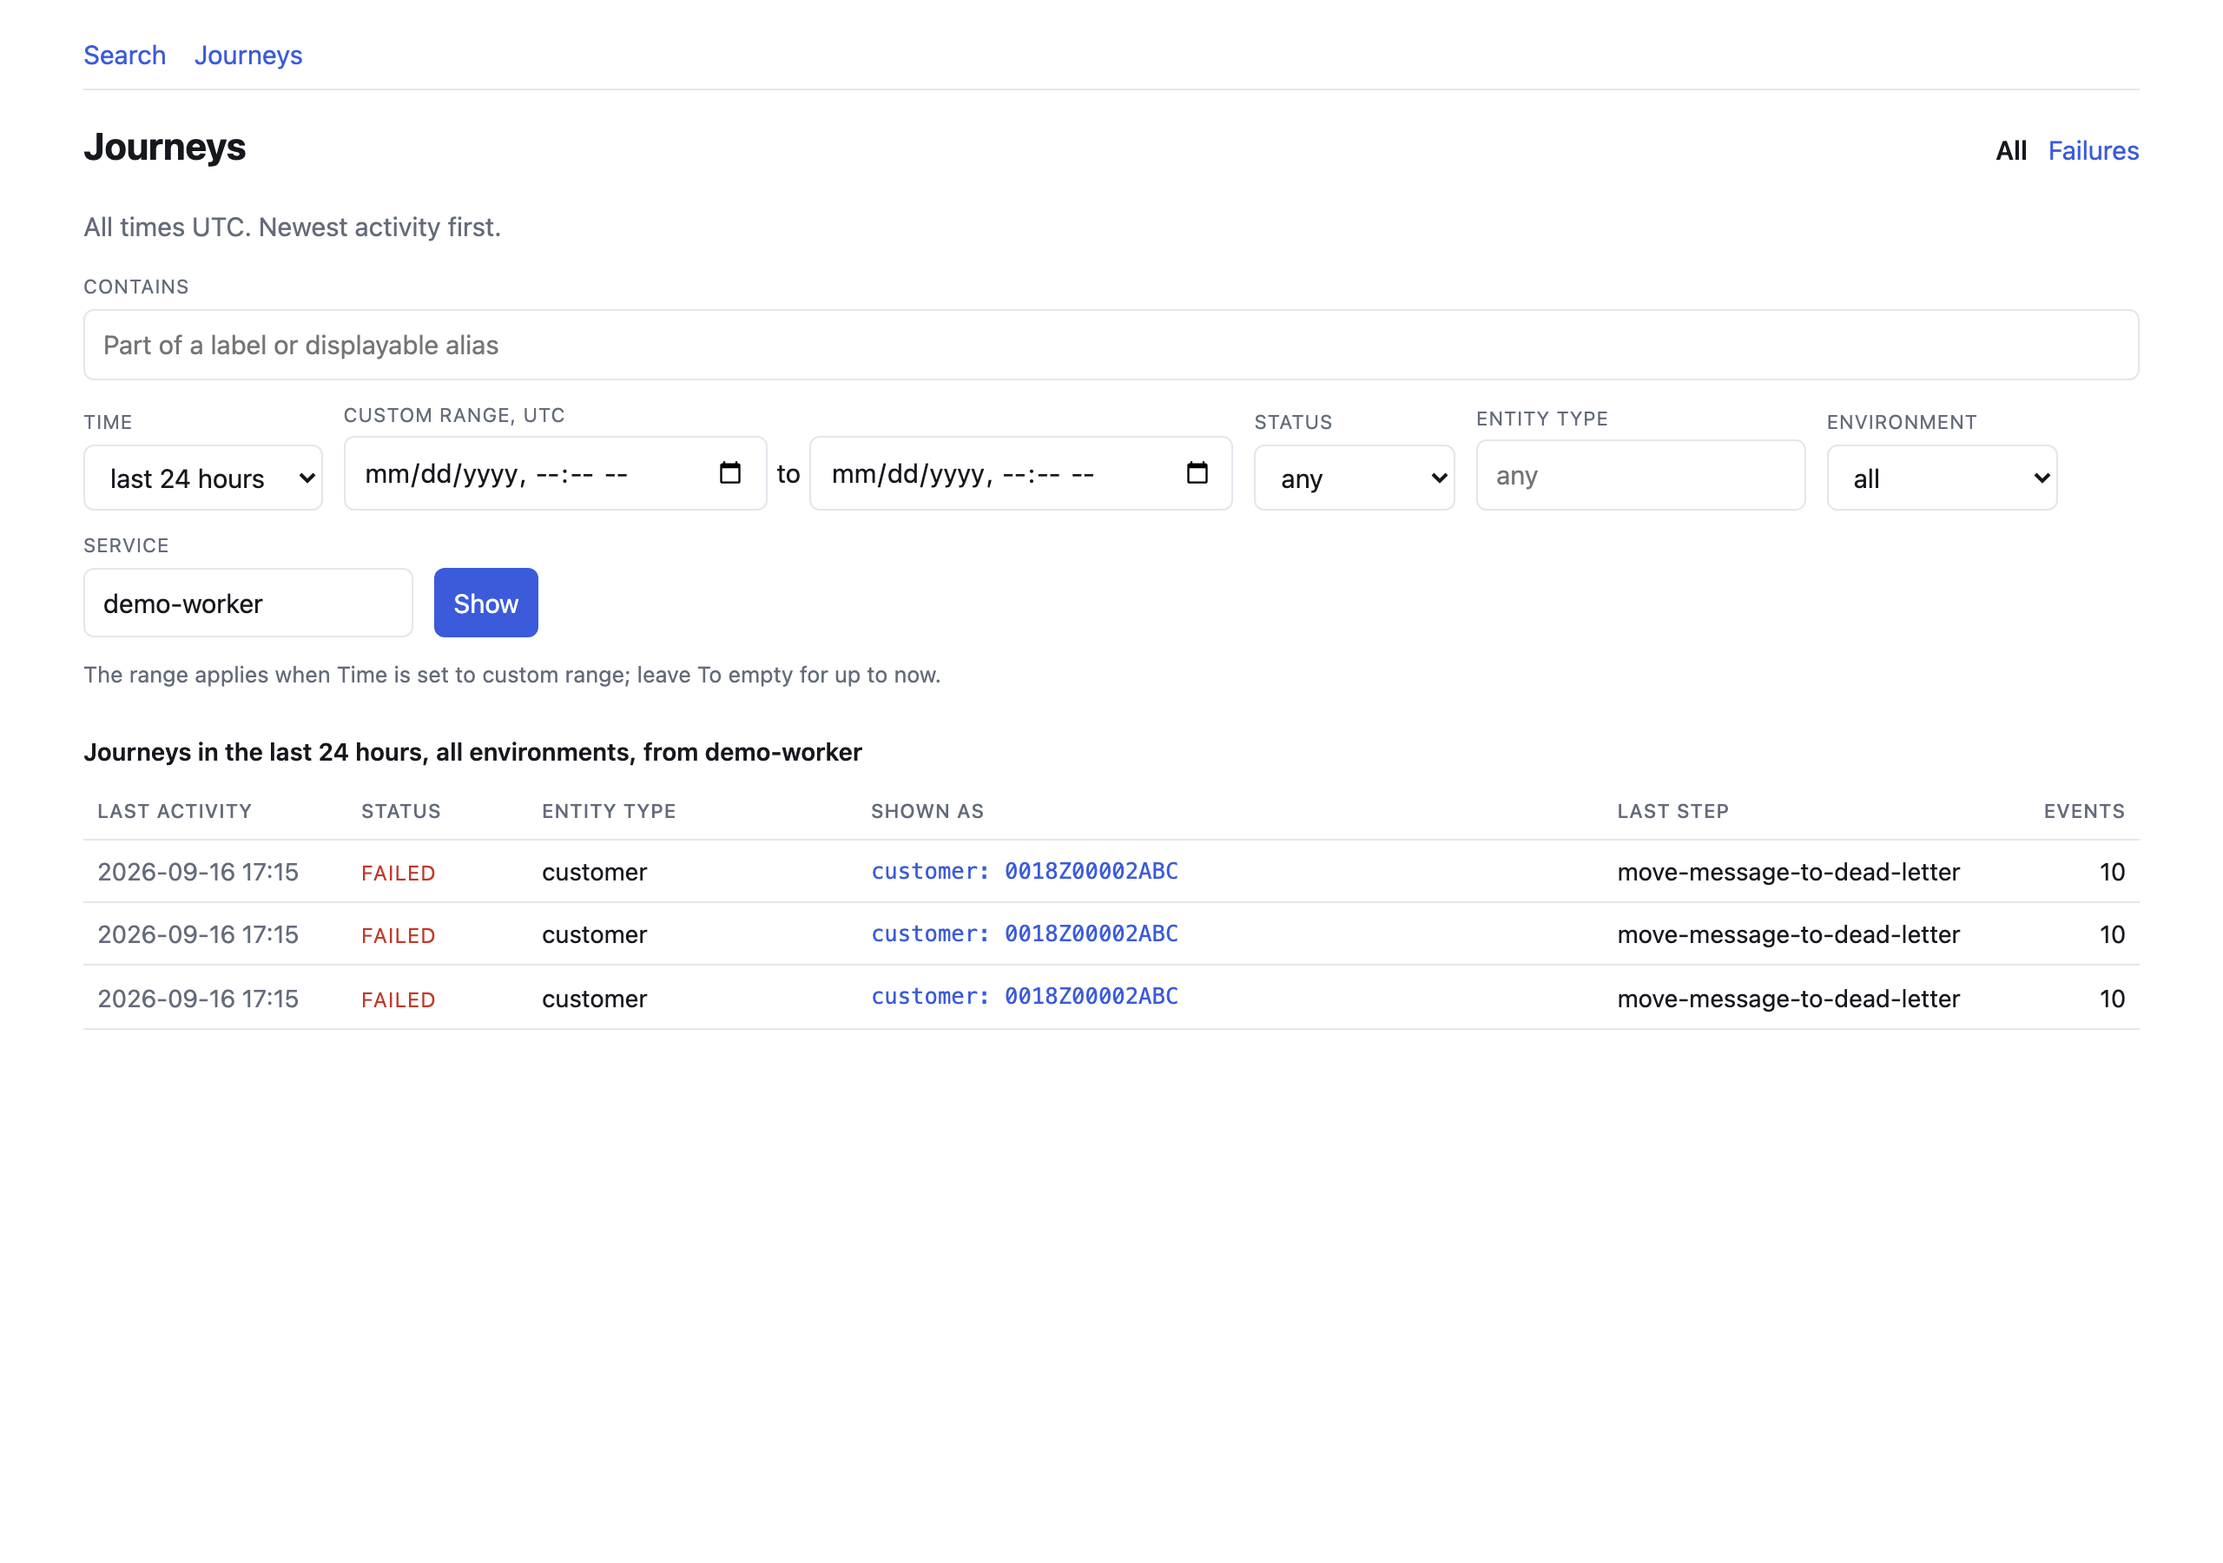
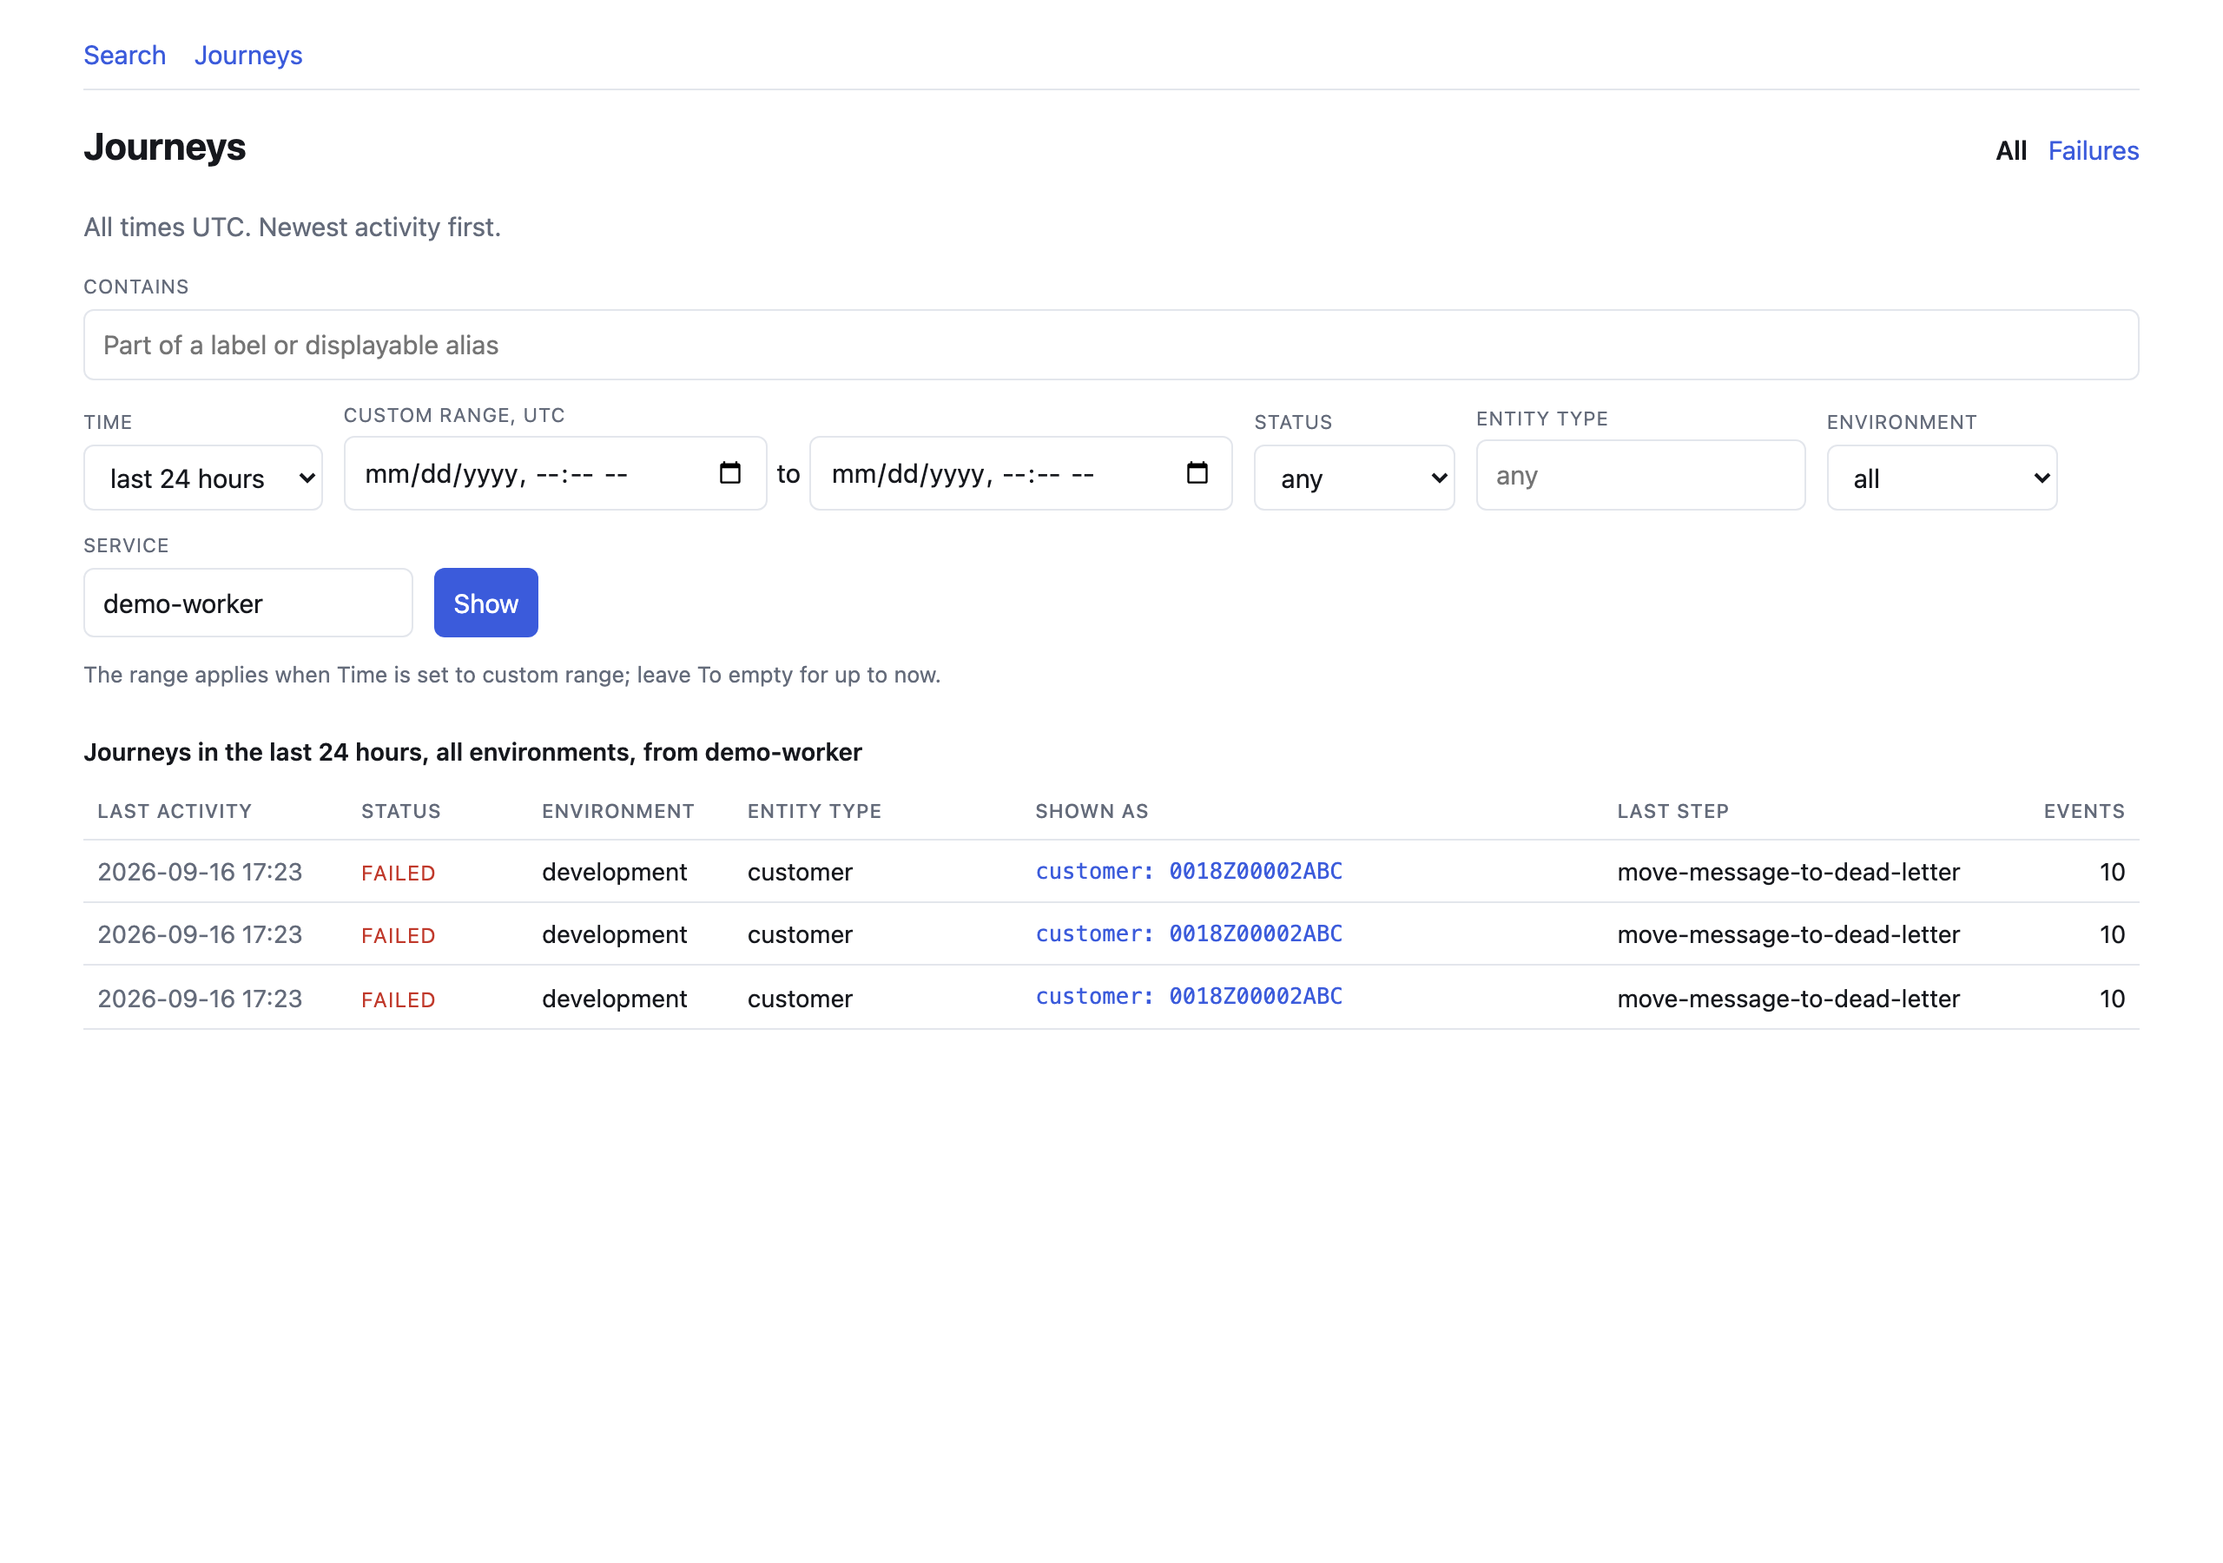
feat(web): the Journeys table names each row's environment across environments
An Environment column follows Status when no environment is chosen, so a
list spanning environments says where each journey ran; with one chosen,
every row would repeat it and the caption already names it. It hides
below 40rem with Entity type and Last step. The table moves into
JourneyTable so the rule has a unit test.

The README timeline now names the demo's services as it records them,
demo-integration and demo-worker, and the Journeys screenshot is
regenerated with the new column.

diff --git a/apps/web/app/components/JourneyTable.test.tsx b/apps/web/app/components/JourneyTable.test.tsx
@@ -1,0 +1,83 @@
+import { render, screen, within } from "@testing-library/react";
+import { describe, expect, it } from "vitest";
+import type { JourneyListRow } from "../../src/lib/api";
+import { readJourneyFilters } from "../../src/lib/journey-filters";
+import { JourneyTable } from "./JourneyTable";
+
+const NOW = new Date("2026-09-15T12:00:00.000Z");
+
+const item: JourneyListRow = {
+  journeyId: "jrn_1",
+  entity: { type: "job_posting", id: "0018Z00002ABC" },
+  status: "failed",
+  eventCount: 14,
+  startedAt: "2026-09-15T10:31:02.000Z",
+  lastEventAt: "2026-09-15T10:34:38.000Z",
+  environment: "production",
+  label: "Mirantis · Senior SWE",
+  lastStep: "audit-needs-review",
+  displayableAliases: []
+};
+
+const renderTable = (params: Record<string, string>): HTMLElement => {
+  render(<JourneyTable filters={readJourneyFilters(params, NOW)} items={[item]} />);
+  return screen.getByRole("table");
+};
+
+const headers = (table: HTMLElement): string[] =>
+  within(table)
+    .getAllByRole("columnheader")
+    .map((header) => header.textContent);
+
+describe("JourneyTable", () => {
+  it("is named by its caption, which states the filters", () => {
+    renderTable({ status: "failed" });
+    expect(
+      screen.getByRole("table", { name: "Failed journeys in the last 24 hours, all environments" })
+    ).toBeTruthy();
+  });
+
+  it("names each row's environment when the list spans environments", () => {
+    const table = renderTable({});
+    expect(headers(table)).toEqual([
+      "Last activity",
+      "Status",
+      "Environment",
+      "Entity type",
+      "Shown as",
+      "Last step",
+      "Events"
+    ]);
+    const row = within(table).getAllByRole("row")[1];
+    expect(
+      row === undefined
+        ? []
+        : within(row)
+            .getAllByRole("cell")
+            .map((c) => c.textContent)
+    ).toEqual([
+      "2026-09-15 10:34",
+      "failed",
+      "production",
+      "job_posting",
+      "Mirantis · Senior SWE",
+      "audit-needs-review",
+      "14"
+    ]);
+  });
+
+  it("leaves the environment out when one is chosen, since every row shares it", () => {
+    const table = renderTable({ environment: "production" });
+    expect(headers(table)).not.toContain("Environment");
+    expect(within(table).queryByText("production")).toBeNull();
+    expect(within(table).getAllByRole("cell")).toHaveLength(6);
+  });
+
+  it("uses column headers with a scope", () => {
+    const table = renderTable({});
+    for (const header of within(table).getAllByRole("columnheader")) {
+      expect(header.tagName).toBe("TH");
+      expect(header.getAttribute("scope")).toBe("col");
+    }
+  });
+});

diff --git a/apps/web/app/components/JourneyTable.tsx b/apps/web/app/components/JourneyTable.tsx
@@ -1,0 +1,58 @@
+import type { ReactElement } from "react";
+import type { JourneyListRow } from "../../src/lib/api";
+import { describeJourneyFilters, type JourneyFilters } from "../../src/lib/journey-filters";
+import { JourneyRow } from "./JourneyRow";
+
+/**
+ * The Journeys page's table: one line per journey, named by a caption that
+ * states the filters.
+ *
+ * The Environment column appears only when the list spans environments. With
+ * one chosen, every row would repeat it, and the caption already names it.
+ */
+export function JourneyTable({
+  filters,
+  items
+}: {
+  filters: JourneyFilters;
+  items: readonly JourneyListRow[];
+}): ReactElement {
+  const showEnvironment = filters.environment === "";
+  return (
+    <table className="journey-table">
+      <caption className="journeys-summary">{describeJourneyFilters(filters)}</caption>
+      <thead>
+        <tr>
+          <th scope="col" className="col-activity">
+            Last activity
+          </th>
+          <th scope="col" className="col-status">
+            Status
+          </th>
+          {showEnvironment ? (
+            <th scope="col" className="col-environment">
+              Environment
+            </th>
+          ) : null}
+          <th scope="col" className="col-type">
+            Entity type
+          </th>
+          <th scope="col" className="col-shown">
+            Shown as
+          </th>
+          <th scope="col" className="col-step">
+            Last step
+          </th>
+          <th scope="col" className="col-events">
+            Events
+          </th>
+        </tr>
+      </thead>
+      <tbody>
+        {items.map((item) => (
+          <JourneyRow key={item.journeyId} item={item} showEnvironment={showEnvironment} />
+        ))}
+      </tbody>
+    </table>
+  );
+}

diff --git a/apps/web/app/(authenticated)/journeys/page.tsx b/apps/web/app/(authenticated)/journeys/page.tsx
@@ -20,7 +20,7 @@ import {
   type JourneyFilters
 } from "../../../src/lib/journey-filters";
 import { JourneyFilterBar } from "../../components/JourneyFilterBar";
-import { JourneyRow } from "../../components/JourneyRow";
+import { JourneyTable } from "../../components/JourneyTable";
 
 type SearchParams = Record<string, string | string[] | undefined>;
 
@@ -108,36 +108,7 @@ export default async function JourneysPage({
           </div>
         </>
       ) : (
-        <table className="journey-table">
-          <caption className="journeys-summary">{describeJourneyFilters(filters)}</caption>
-          <thead>
-            <tr>
-              <th scope="col" className="col-activity">
-                Last activity
-              </th>
-              <th scope="col" className="col-status">
-                Status
-              </th>
-              <th scope="col" className="col-type">
-                Entity type
-              </th>
-              <th scope="col" className="col-shown">
-                Shown as
-              </th>
-              <th scope="col" className="col-step">
-                Last step
-              </th>
-              <th scope="col" className="col-events">
-                Events
-              </th>
-            </tr>
-          </thead>
-          <tbody>
-            {page.items.map((item) => (
-              <JourneyRow key={item.journeyId} item={item} />
-            ))}
-          </tbody>
-        </table>
+        <JourneyTable filters={filters} items={page.items} />
       )}
 
       {page.nextCursor === null && filters.cursor === "" ? null : (

diff --git a/apps/web/app/components/JourneyRow.tsx b/apps/web/app/components/JourneyRow.tsx
@@ -36,7 +36,14 @@ export function shownAs(item: JourneyListRow): ShownAs {
  * cut with an ellipsis by the stylesheet (`.journey-table`) and given in full
  * as a title.
  */
-export function JourneyRow({ item }: { item: JourneyListRow }): ReactElement {
+export function JourneyRow({
+  item,
+  showEnvironment = false
+}: {
+  item: JourneyListRow;
+  /** Whether the table has an Environment column: only when it spans environments. */
+  showEnvironment?: boolean;
+}): ReactElement {
   const shown = shownAs(item);
   const shownClass =
     shown.kind === "label"
@@ -55,6 +62,11 @@ export function JourneyRow({ item }: { item: JourneyListRow }): ReactElement {
       <td className="col-status">
         <span className={item.status === "failed" ? "status failed" : "status"}>{item.status}</span>
       </td>
+      {showEnvironment ? (
+        <td className="col-environment" title={item.environment}>
+          {item.environment}
+        </td>
+      ) : null}
       <td className="col-type" title={item.entity.type}>
         {item.entity.type}
       </td>

diff --git a/apps/web/e2e/journeys.spec.ts b/apps/web/e2e/journeys.spec.ts
@@ -109,6 +109,7 @@ test("lists a labelled journey and the fallback rows, newest first", async ({ pa
   await expect(page.getByRole("columnheader")).toHaveText([
     "Last activity",
     "Status",
+    "Environment",
     "Entity type",
     "Shown as",
     "Last step",
@@ -124,11 +125,18 @@ test("lists a labelled journey and the fallback rows, newest first", async ({ pa
   await expect(rows(page).nth(2).getByRole("cell")).toHaveText([
     /^\d{4}-\d{2}-\d{2} \d{2}:\d{2}$/,
     "failed",
+    "development",
     "customer",
     LABEL,
     "failed-step",
     "1"
   ]);
+
+  // With an environment chosen, every row shares it, so the column goes.
+  await page.goto(`/journeys?service=${SERVICE}&environment=development`);
+  await expect(rows(page)).toHaveCount(3);
+  await expect(page.getByRole("columnheader", { name: "Environment" })).toHaveCount(0);
+  await expect(rows(page).first().getByRole("cell")).toHaveCount(6);
 
   await page.getByRole("link", { name: LABEL }).click();
   await expect(page).toHaveURL(`/journeys/${LABELLED.journeyId}`);

diff --git a/apps/web/e2e/layout.spec.ts b/apps/web/e2e/layout.spec.ts
@@ -142,6 +142,19 @@ test.describe("the Journeys table", () => {
       // Joined alias values are cut to 200 characters before the stylesheet cuts them again.
       await expect(shown.nth(0)).toHaveText(`${LONG_ALIASES.company.slice(0, 199)}…`);
 
+      // No environment is chosen, so the list spans environments and the
+      // Environment column is present; a phone drops it with the other two.
+      // A CSS locator: a hidden header leaves the accessibility tree, so a role
+      // query could not tell "hidden" from "not rendered".
+      const environment = page.locator("thead th.col-environment");
+      await expect(environment).toHaveCount(1);
+      if (width === 400) {
+        await expect(environment).toBeHidden();
+      } else {
+        await expect(environment).toBeVisible();
+        await expect(page.locator("tbody td.col-environment").first()).toHaveText("development");
+      }
+
       expect(await horizontalOverflow(page)).toBe(0);
 
       // The table keeps to the page, and each long value is cut rather than wrapped.

diff --git a/apps/web/app/components/JourneyRow.test.tsx b/apps/web/app/components/JourneyRow.test.tsx
@@ -20,11 +20,11 @@ const item: JourneyListRow = {
   ]
 };
 
-const renderRow = (row: JourneyListRow): HTMLElement => {
+const renderRow = (row: JourneyListRow, showEnvironment = false): HTMLElement => {
   render(
     <table>
       <tbody>
-        <JourneyRow item={row} />
+        <JourneyRow item={row} showEnvironment={showEnvironment} />
       </tbody>
     </table>
   );
@@ -94,6 +94,11 @@ describe("JourneyRow", () => {
       "audit-needs-review",
       "14"
     ]);
+  });
+
+  it("adds the environment after the status only when asked", () => {
+    const row = renderRow(item, true);
+    expect(cells(row).slice(1, 4)).toEqual(["failed", "production", "job_posting"]);
   });
 
   it("gives the exact time on the time element", () => {

diff --git a/apps/web/app/globals.css b/apps/web/app/globals.css
@@ -287,8 +287,11 @@ button {
 .journey-table .col-status {
   width: 6.5rem;
 }
+.journey-table .col-environment {
+  width: 10%;
+}
 .journey-table .col-type {
-  width: 16%;
+  width: 14%;
 }
 .journey-table .col-step {
   width: 20%;
@@ -305,8 +308,9 @@ button {
 }
 
 @media (max-width: 40rem) {
-  /* A phone keeps what a row is shown as, and drops the two columns the
+  /* A phone keeps what a row is shown as, and drops the three columns the
      journey page repeats; the date sits above the time. */
+  .journey-table .col-environment,
   .journey-table .col-type,
   .journey-table .col-step {
     display: none;

diff --git a/README.md b/README.md
@@ -60,16 +60,16 @@ Search `0018Z00002ABC` and you get one record's history, in order, across every
 service that touched it:
 
 ```text
-received      receive-salesforce-webhook     integration-api
-transformed   transform-salesforce-account   integration-api
-persisted     persist-customer               integration-api
-identified    identify                       integration-api
-published     publish-customer-updated       integration-api
-consumed      consume-customer-updated       sync-worker
-delivered     deliver-customer-to-target     sync-worker      422
-retried       retry-customer-delivery        sync-worker      422
-retried       retry-customer-delivery        sync-worker      422
-failed        move-message-to-dead-letter    sync-worker
+received      receive-salesforce-webhook     demo-integration
+transformed   transform-salesforce-account   demo-integration
+persisted     persist-customer               demo-integration
+identified    identify                       demo-integration
+published     publish-customer-updated       demo-integration
+consumed      consume-customer-updated       demo-worker
+delivered     deliver-customer-to-target     demo-worker       422
+retried       retry-customer-delivery        demo-worker       422
+retried       retry-customer-delivery        demo-worker       422
+failed        move-message-to-dead-letter    demo-worker
 ```
 
 Open the transformation and you get a **field-level diff** of what that step
